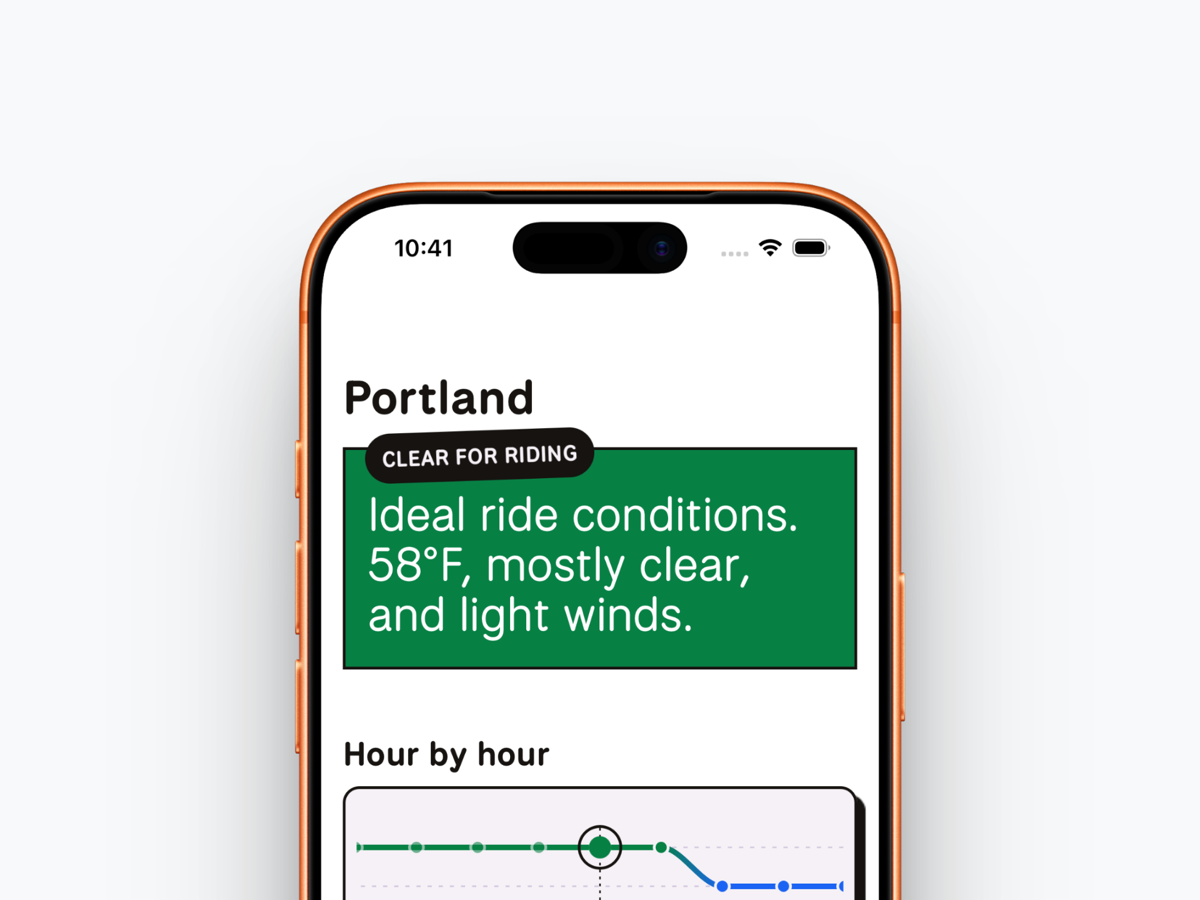
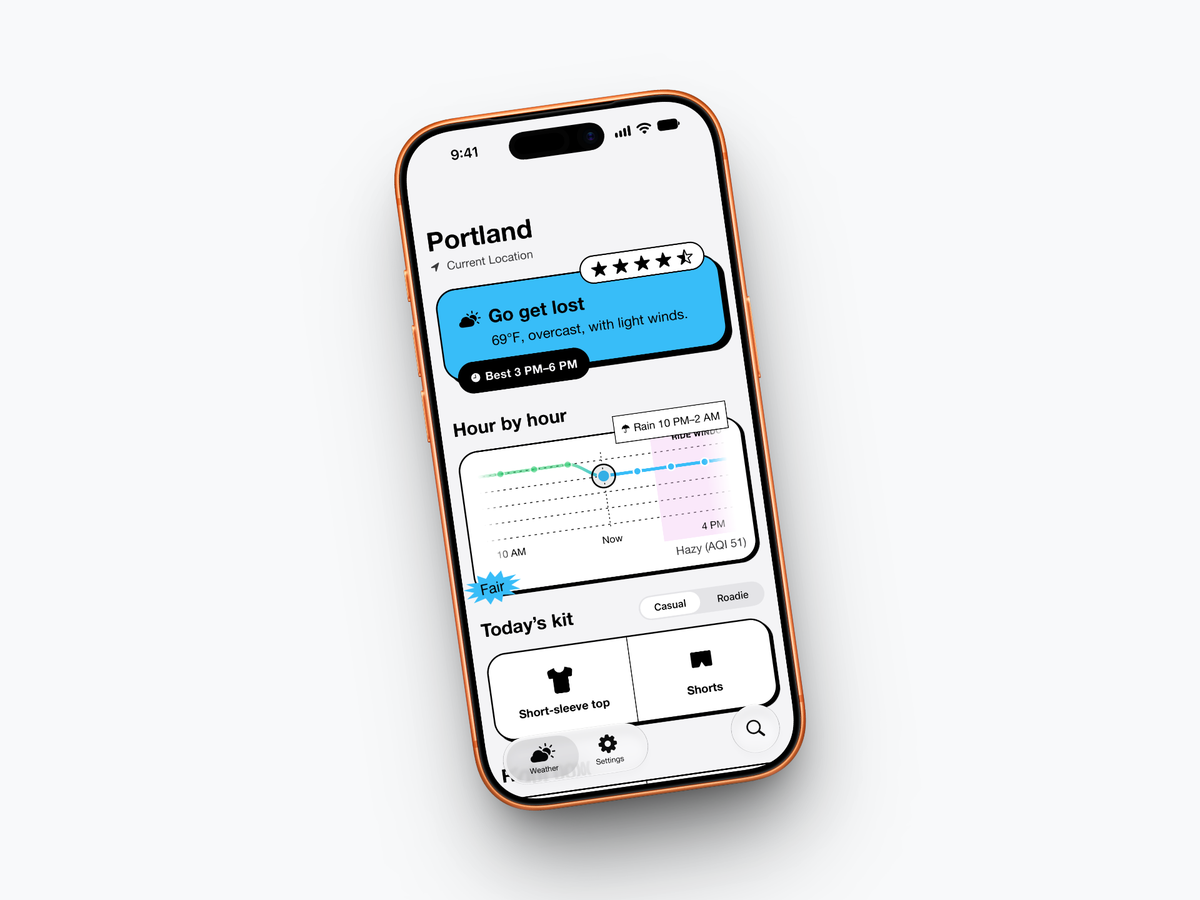
docs: refresh README mockups
New shots of the current app: ideal and poor verdicts, the week ahead, and dark
mode. Adds an EAS `screenshots` profile that builds a release simulator app on
the pinned Xcode 26.6 image, so screenshots show the correct tab bar.

Changed region(s): [[0.2158, 0.0933, 0.8017, 1.0]]

diff --git a/README.md b/README.md
@@ -10,6 +10,10 @@ A cyclist-first weather app for iOS, Android, and the web. Live at [wheelyweathe
   <img src="./assets/images/screenshot-ideal.png" alt="Home screen, ideal ride conditions" width="45%" />
   <img src="./assets/images/screenshot-poor.png" alt="Home screen, poor ride conditions" width="45%" />
 </p>
+<p>
+  <img src="./assets/images/screenshot-week.png" alt="Week ahead with daily ride ratings" width="45%" />
+  <img src="./assets/images/screenshot-dark.png" alt="Home screen in dark mode" width="45%" />
+</p>
 
 ## Features
 
